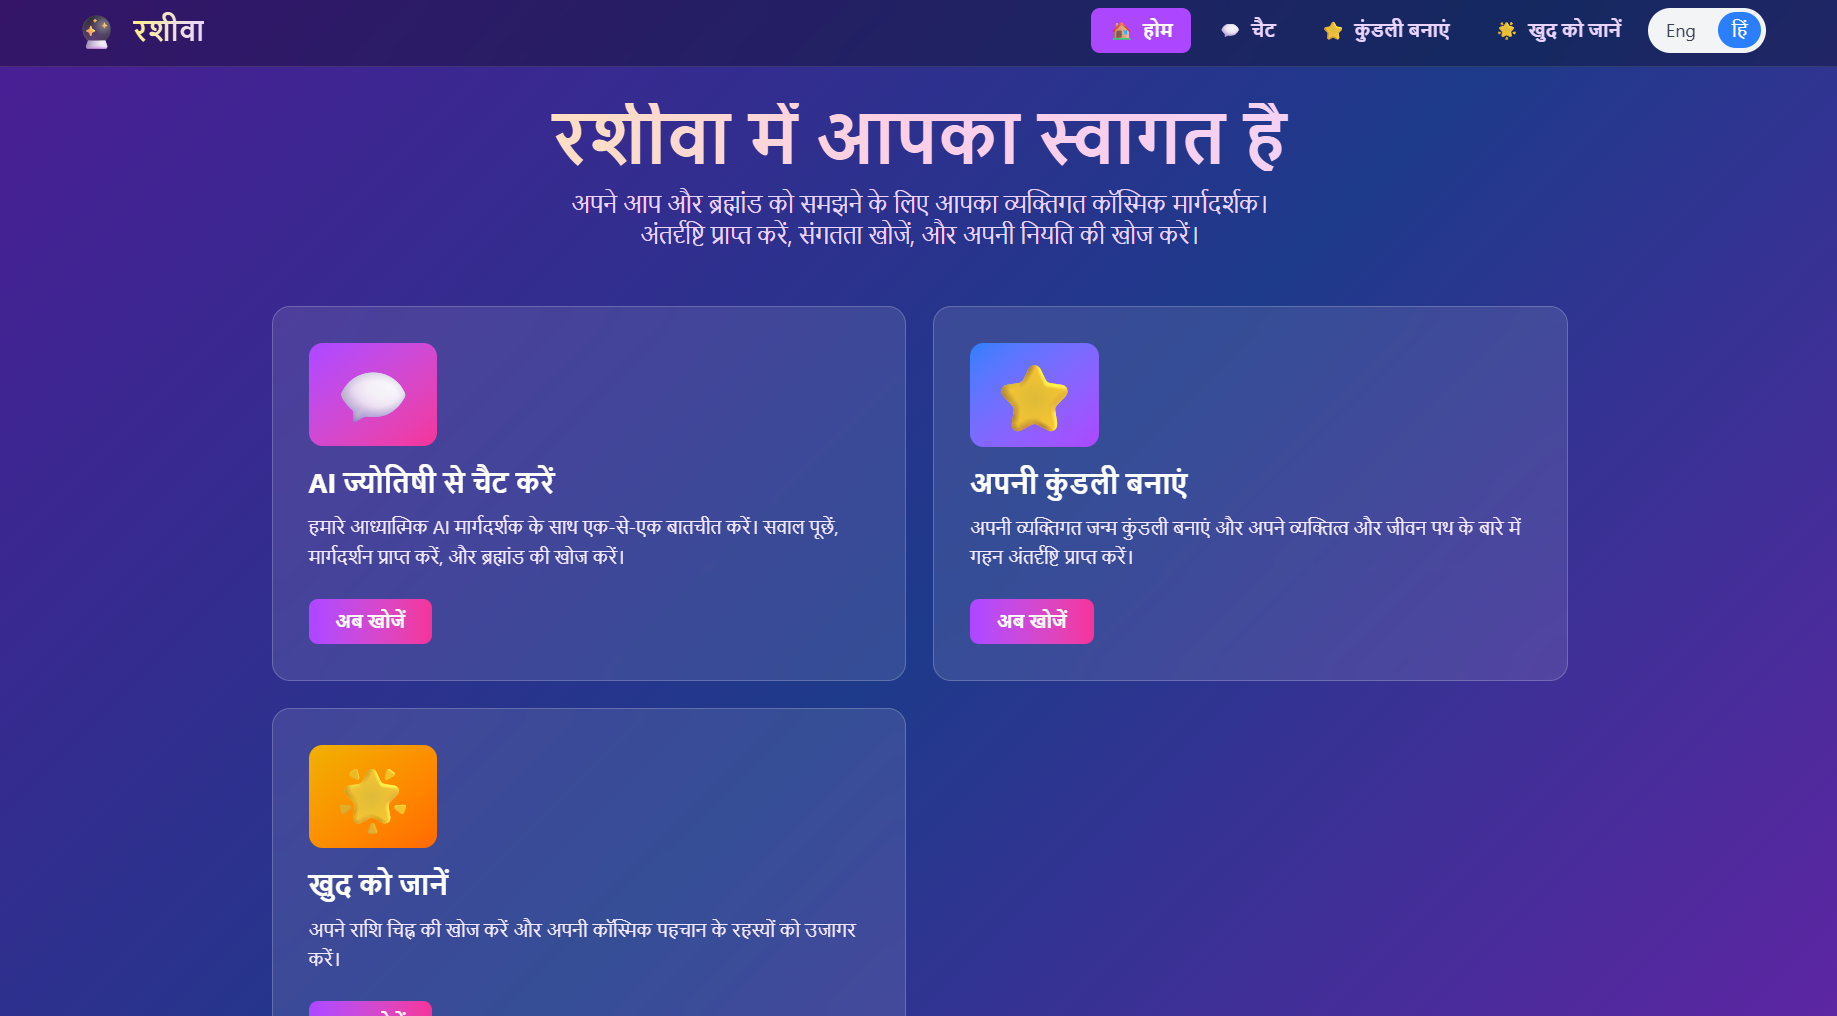
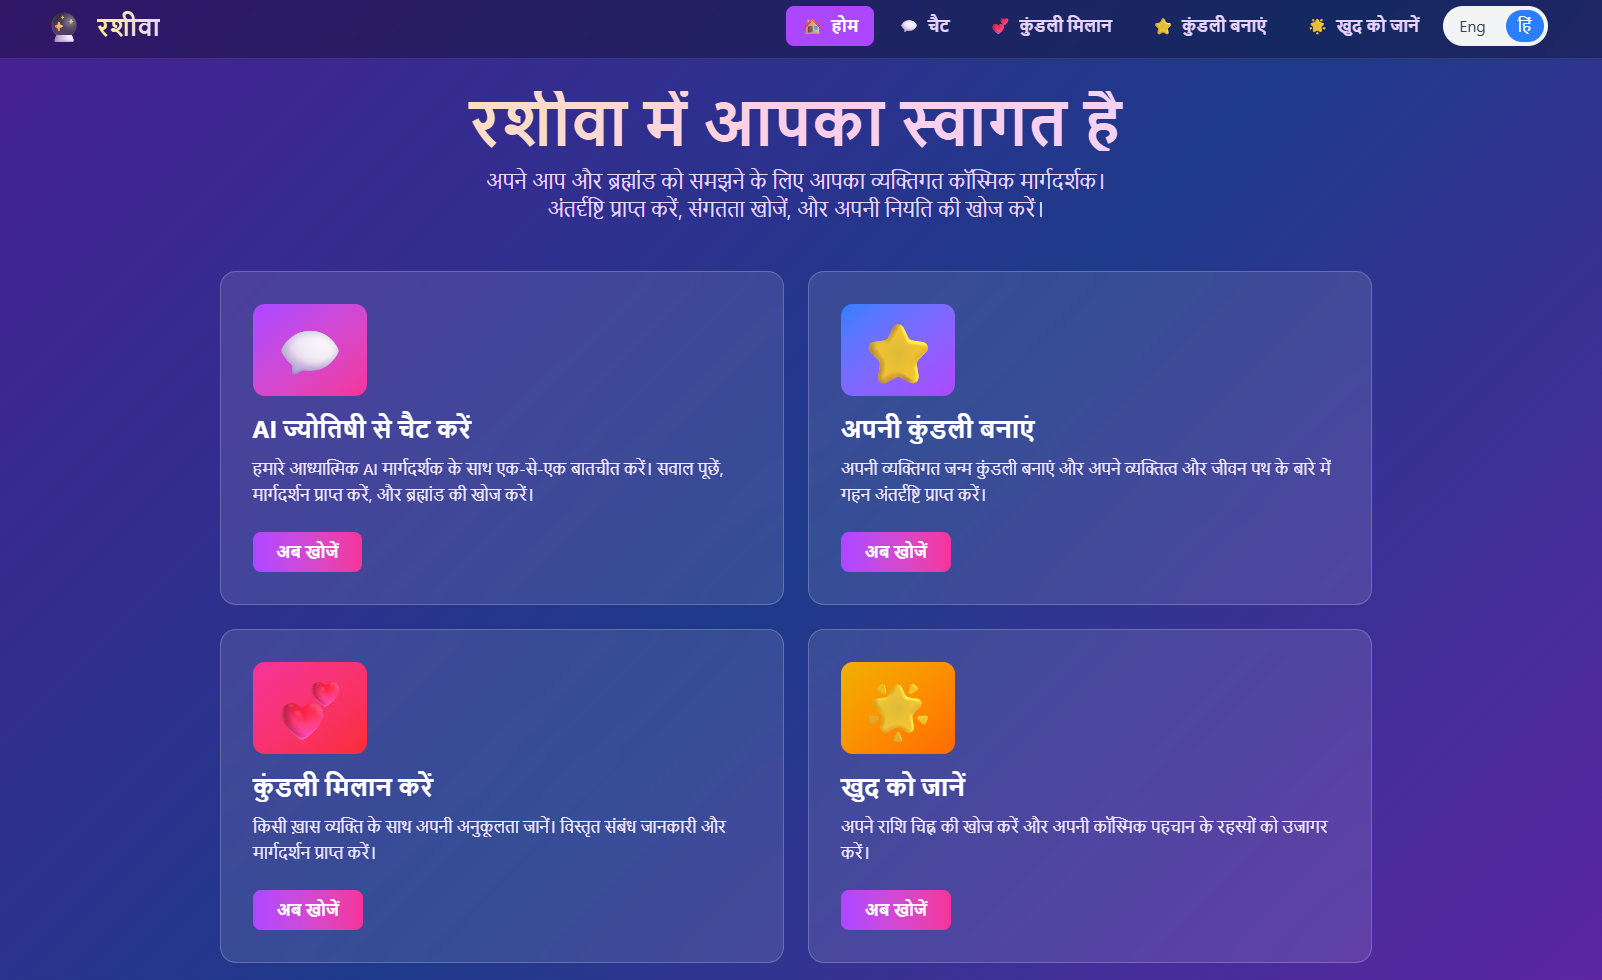
fix: design images update and all things.

diff --git a/README.md b/README.md
@@ -1,13 +1,14 @@
 # 🌟 Rashiva – AI Astrologer
 
 **Rashiva** is an AI-powered astrologer web application built with **React.js** and **Google Gemini API**.  
-It offers personalized Kundali (birth chart) interpretations, cosmic insights, and spiritual guidance — all powered by artificial intelligence.
+It offers personalized Kundali (birth chart) interpretations, cosmic insights, spiritual guidance, and compatibility analysis — all powered by artificial intelligence.
 
 ---
 
 ## ✨ Features
 
 - 🔮 Personalized **Kundali (birth chart)** interpretations based on user details.  
+- 💕 **Match Kundali** — analyze astrological compatibility between two people with insights on relationship dynamics, emotional connection, strengths, potential challenges, and harmony advice.  
 - 🪐 **AI-powered astrological insights** using Google Gemini API.  
 - 💬 Natural, friendly, and mystical AI responses with practical advice.  
 - 🌍 **Multilingual support** — switch seamlessly between **English** and **Hindi** using the built-in language switcher.  
@@ -18,8 +19,9 @@ It offers personalized Kundali (birth chart) interpretations, cosmic insights, a
 
 ## 🖼 Demo
 
-![Rashiva Demo Screenshot](https://raw.githubusercontent.com/mohdsameerid/rashiva/master/src/assets/screenshot.png)
+![Rashiva Demo Screenshot](https://raw.githubusercontent.com/mohdsameerid/rashiva/master/src/assets/screenshot.png)  
 ![Rashiva Demo Screenshot](https://raw.githubusercontent.com/mohdsameerid/rashiva/master/src/assets/screenshot2.png)
+
 ---
 
 ## 🚀 Live App
@@ -41,8 +43,8 @@ It offers personalized Kundali (birth chart) interpretations, cosmic insights, a
 
 | Language | Code | Description |
 |-----------|------|-------------|
-| English   | `en` | Default language |
-| Hindi     | `hi` | Translated content for broader reach |
+| English   | `en`  | Default language |
+| Hindi     | `hi`  | Translated content for broader reach |
 
 Switch between languages instantly with a smooth Tailwind-styled **language switcher**.
 
